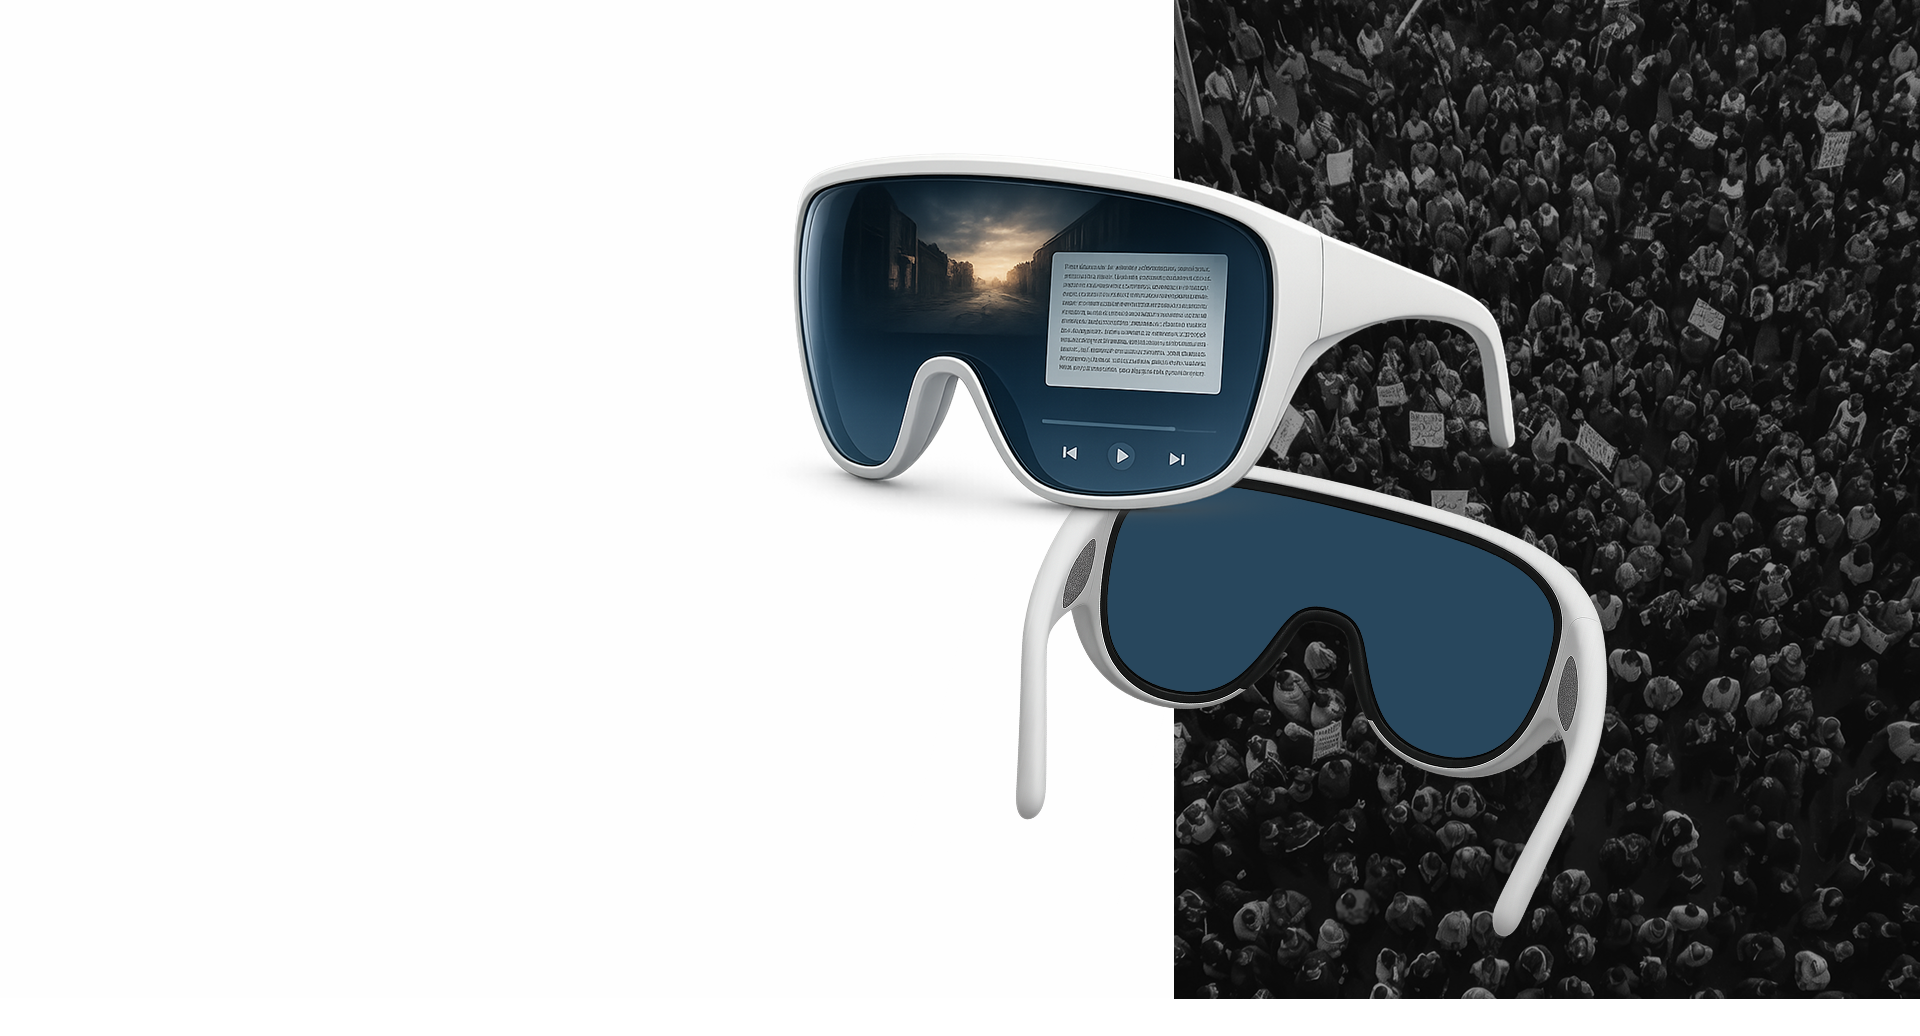
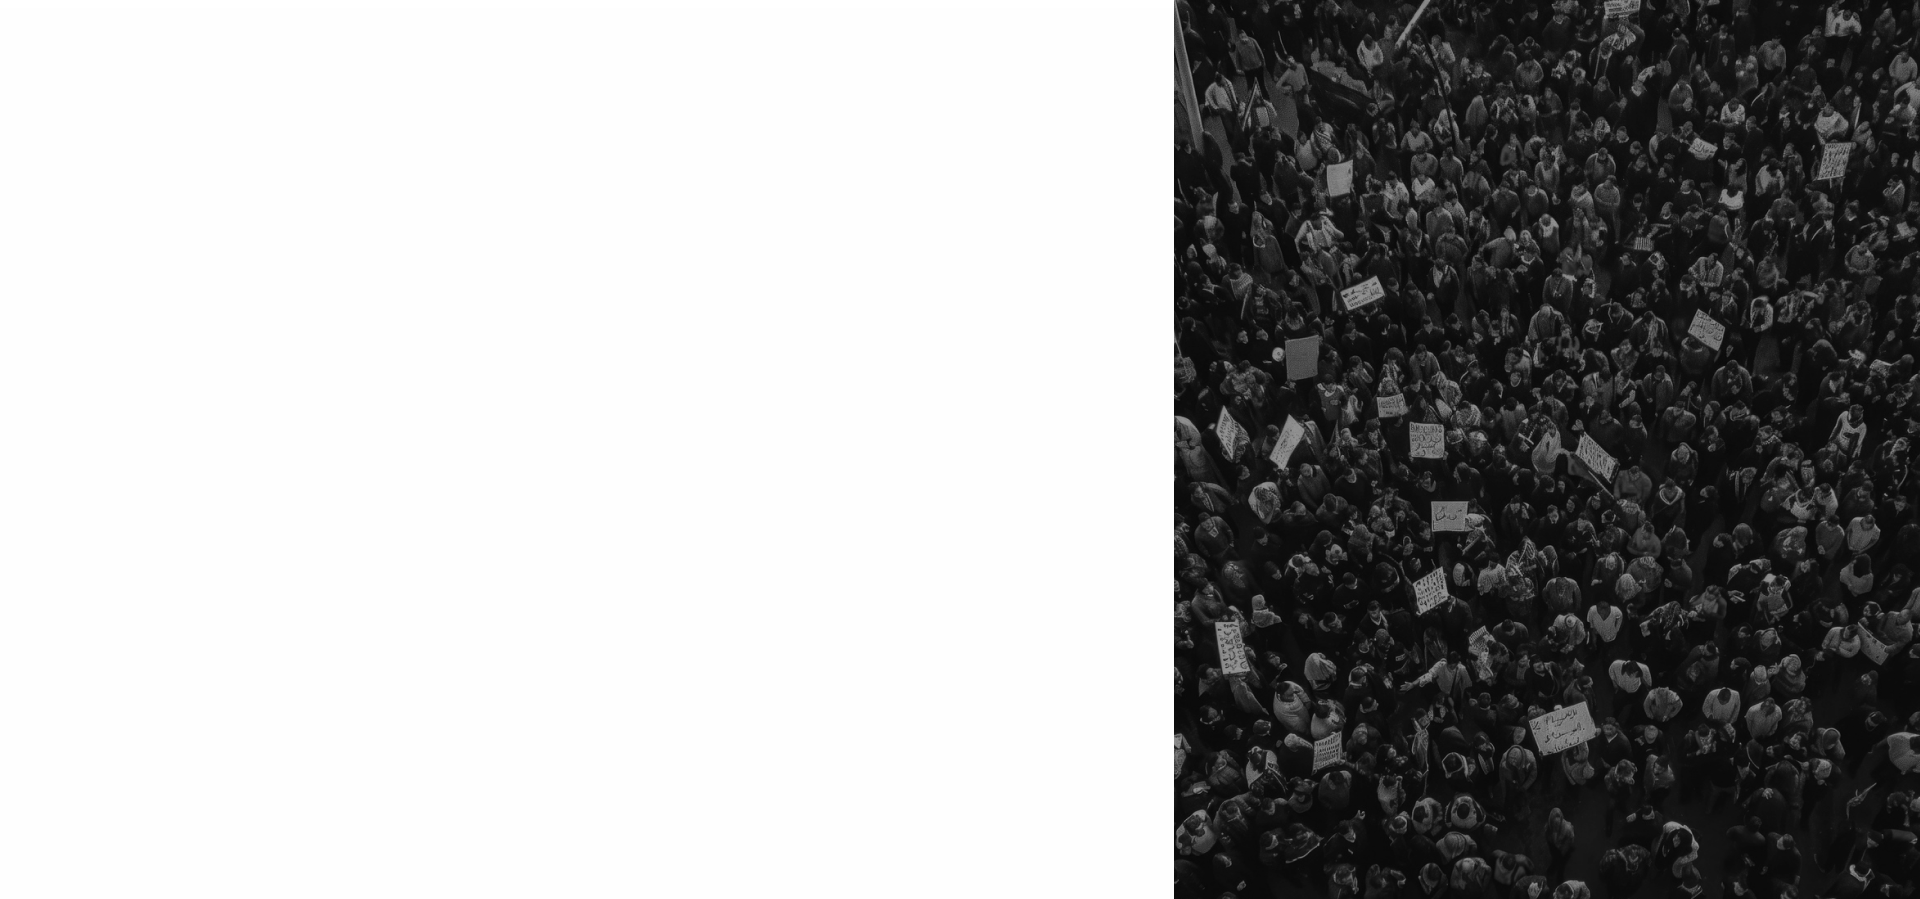
HeroFixedFinal

Changed region(s): [[0.4062, 0.0, 1.0, 1.0]]

diff --git a/src/index.html b/src/index.html
@@ -3,7 +3,7 @@
 <section class="hero-accueil">
     <div class="wrapper">
         <div class="hero-media">
-            <img src="assets/images/hero__bg.png" alt="" />
+            <img src="assets/images/lunettes_hero.png" alt="Lunettes Vision" />
         </div>
         <div class="hero-content">
             <div class="hero-title">
@@ -17,21 +17,21 @@
                 <p>Dans un monde où la culture est effacée, Vision te rend l’accès à ce qu’ils ont voulu cacher.</p>
                 <p>Lis les livres interdits, regarde les films censurés, écoute les musiques bannies — tout à travers une simple paire de lunettes.</p>
             </div>
-            <div class="hero-down">
+            <!--<div class="hero-down">
                 <a href="" class="hero-scrolldown">
                     <p>En savoir plus</p>
                     <svg class="icon icon--lg">
                         <use href="#icon-chevron_down"></use>
                     </svg>
                 </a>
-            </div>
+            </div>-->
         </div>
     </div>
 </section>
 
 <section class="arguments">
     <div class="wrapper">
-        <div class="argument-media"><img src="assets/images/vision-demo.png" alt="Personne portant des lunettes Visions" /></div>
+       
         <div class="argument-content">
             <h2>Pourquoi vision?</h2>
             <ul>
@@ -64,18 +64,18 @@
     <div class="wrapper">
         <h2>Découvrez l'interdit</h2>
         <div class="universe-cards">
-            <div class="universe-card">
-                <img src="assets/images/univers-musical.jpg" alt="" />
+            <a class="universe-card">
+                <img src="assets/images/univers-musical.png" alt="" />
                 <h3>Univers musical</h3>
-            </div>
-            <div class="universe-card">
-                <img src="assets/images/univers-lecture.jpg" alt="" />
+        </a>
+            <a class="universe-card">
+                <img src="assets/images/univers-lecture.png" alt="" />
                 <h3>Univers de lecture</h3>
-            </div>
-            <div class="universe-card">
-                <img src="assets/images/univers-cinema.jpg" alt="" />
+            </a>
+            <a  class="universe-card">
+                <img src="assets/images/univers-cinema.png" alt="" />
                 <h3>Univers du cinéma</h3>
-            </div>
+            </a>
         </div>
     </div>
 </section>

diff --git a/src/styles/components/hero.scss b/src/styles/components/hero.scss
@@ -1,6 +1,10 @@
 .hero-accueil {
     position: relative;
     height: 87vh;
+    background-image: url(../../assets/images/hero__bg.png);
+     background-size: cover;
+  background-position: center;
+   // background-color: var(--color-white);
 
     .wrapper {
         height: 100%;
@@ -8,12 +12,12 @@
 
     .hero-media {
         position: absolute;
-        top: 0;
-        left: 0;
+        top: 120px;
+        left: -120px;
         z-index: 1;
         object-fit: cover;
-        height: 100%;
-        width: 100%;
+        height: 120%;
+        width: 120%;
         img {
             display: block;
             height: 100%;
@@ -23,12 +27,13 @@
     }
 
     .hero-content {
+        padding-top: 240px;
         height: 100%;
         width: 100%;
         display: flex;
         flex-direction: column;
-        justify-content: end;
-        gap: 32px;
+        justify-content: center;
+        gap: 80px;
         position: relative;
         z-index: 5;
         color: var(--color-black);
@@ -39,9 +44,11 @@
             }
         }
         .hero-intro {
+           
+            
             max-width: 28vw;
             p {
-                margin: 18px 0;
+                margin: 24px 0;
             }
         }
         h2 {
@@ -50,14 +57,14 @@
         p {
             margin: 0;
         }
-        .hero-down {
+        /*.hero-down {
             align-self: center;
             .hero-scrolldown {
                 display: flex;
                 flex-direction: column;
                 align-items: center;
             }
-        }
+        }*/
     }
 }
 

diff --git a/src/styles/components/frontpage.scss b/src/styles/components/frontpage.scss
@@ -1,27 +1,47 @@
 .arguments {
+    position: relative;
     .wrapper {
-        display: flex;
-        align-items: center;
-        justify-content: center;
-        margin-bottom: 150px;
-        margin-top: 120px;
-        ul {
-            max-width: 30vw;
+        
+        padding: 80px 0;
+
+        .argument-content{
+            display: flex;
+            flex-direction: column;
+            gap: 24px;
+            justify-content: center;
         }
+
+        h2{
+             font-family: var(--font-secondary);
+        }
+        ul {
+            
+            display: flex;
+            flex-direction: column;
+            gap: 16px;
+            
+        }
+
+        
+    
     }
 }
 
 .universe-list {
+    background-color: var(--color-white);
+    padding: 80px 0;
     h2 {
         font-family: var(--font-secondary);
+        color: var(--color-black);
+        padding-bottom: 24px;
     }
     .universe-cards {
         display: flex;
-        gap: 25px;
-        margin: 60px 0 200px;
+        gap: 24px;
+       
         .universe-card {
-            background-color: var(--color-white);
-            color: var(--color-black);
+            background-color: var(--color-black);
+            color: var(--color-white);
             padding: 30px 30px 20px 30px;
         }
     }

diff --git a/src/styles/elements/body.scss b/src/styles/elements/body.scss
@@ -10,4 +10,5 @@ body {
   font-size: var(--font-size-content);
   color: var(--color-white);
   line-height: 1.6;
+  overflow-x: hidden;
 }
